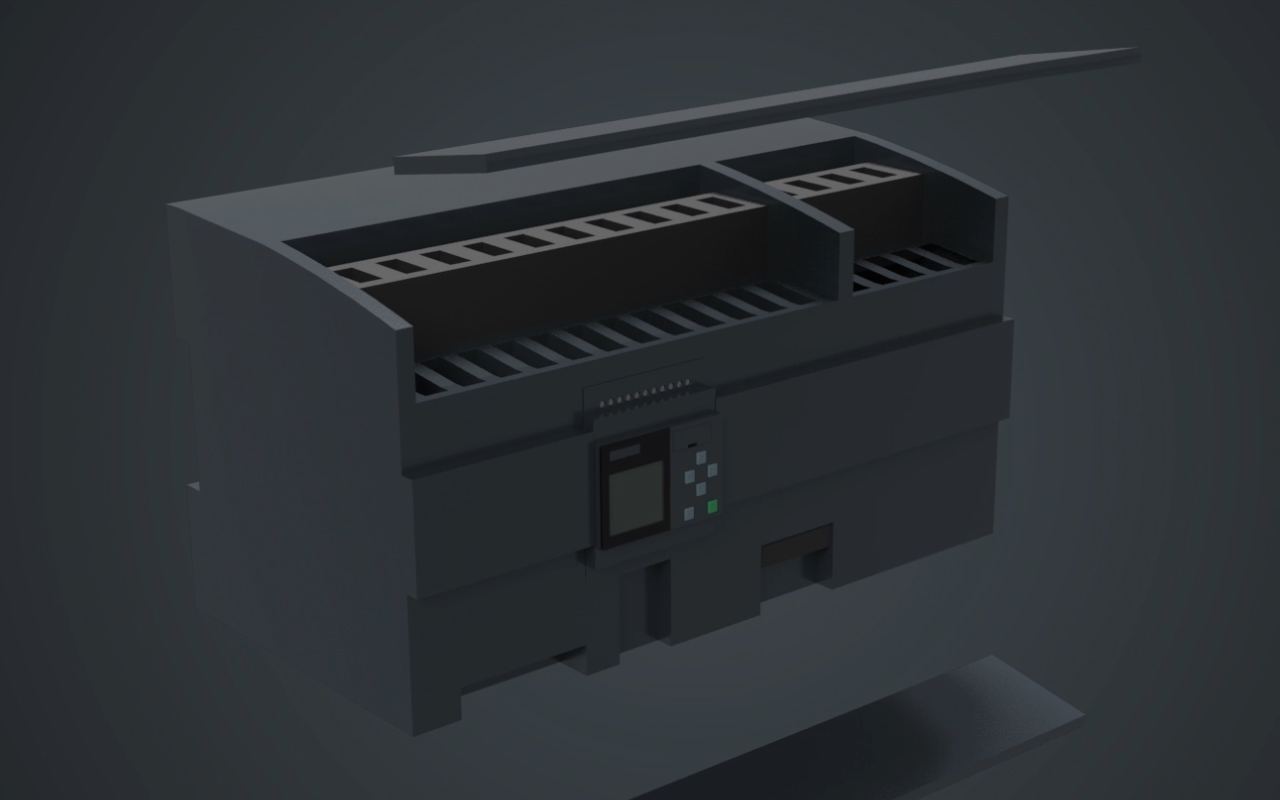
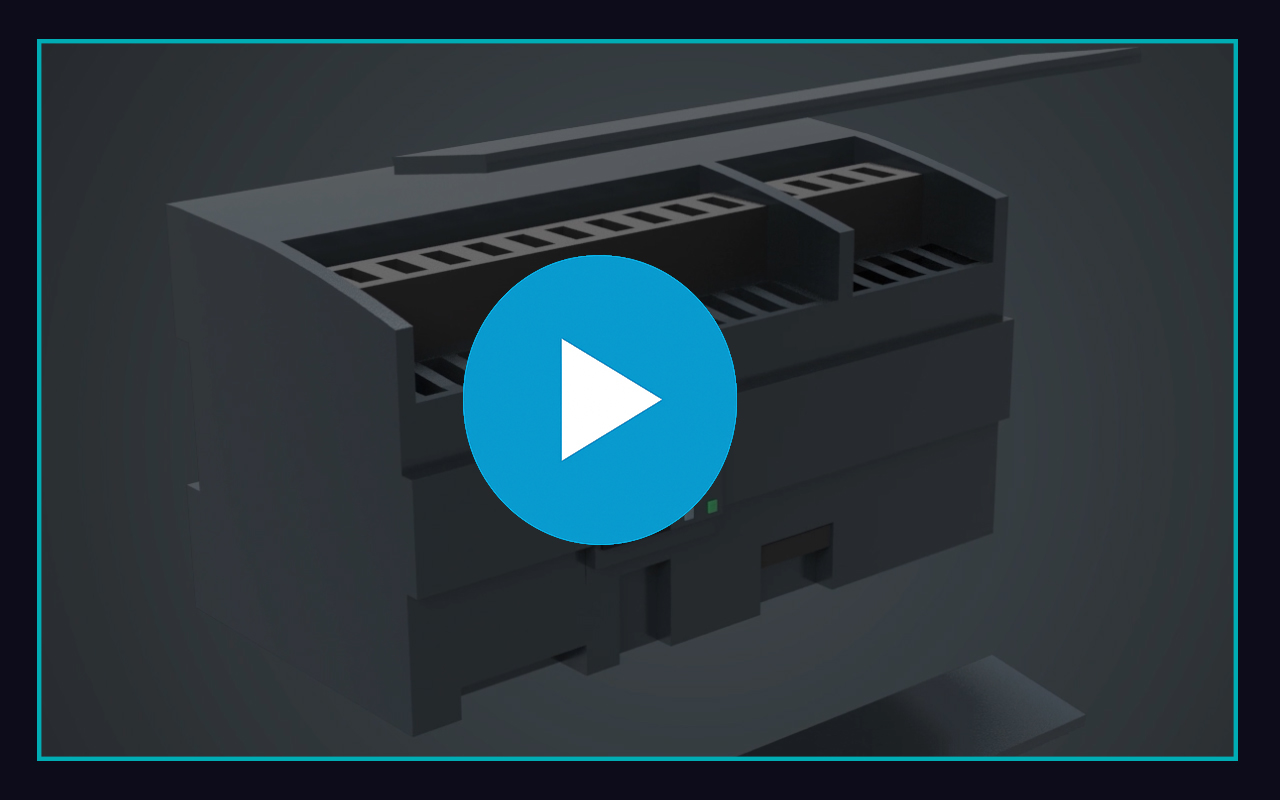
MiniaturasUpdate

Changed region(s): [[0.0, 0.0, 1.0, 1.0], [0.3438, 0.3125, 0.5938, 0.6875]]

diff --git a/index.md b/index.md
@@ -83,7 +83,7 @@ My goal is to transform each concept into something that inspires, excites, and 
   <article class="project-card project-card--video">
     <figure class="project-video-thumb"
             data-video="/PROYECTOS/3D/Animacion_02.mp4">
-      <img src="/PROYECTOS/3D/Animacion_02.png"
+      <img src="/PROYECTOS/3D/Animacion02.jpg"
            alt="Proyecto 2 – Vídeo demostración 2">
       <span class="video-thumb-play">▶</span>
     </figure>
@@ -96,7 +96,7 @@ My goal is to transform each concept into something that inspires, excites, and 
    <article class="project-card project-card--video">
     <figure class="project-video-thumb"
             data-video="/PROYECTOS/3D/Animacion_04.mp4">
-      <img src="/PROYECTOS/3D/Animacion_04.png"
+      <img src="/PROYECTOS/3D/Animacion04.jpg"
            alt="Proyecto 2 – Vídeo demostración 3">
       <span class="video-thumb-play">▶</span>
     </figure>
